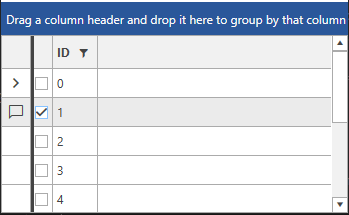
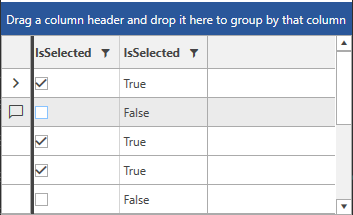
Replaced the screenshot and changed the property name

diff --git a/controls/radgridview/columns/columntypes/checkbox-column.md b/controls/radgridview/columns/columntypes/checkbox-column.md
@@ -19,7 +19,7 @@ __GridViewCheckBoxColumn__ derives from __GridViewBoundColumnBase__ class and it
 	                AutoGenerateColumns="False"
 					ItemsSource="{Binding Items}">
 	    <telerik:RadGridView.Columns>
-	        <telerik:GridViewCheckBoxColumn DataMemberBinding="{Binding IsActive}" />
+	        <telerik:GridViewCheckBoxColumn DataMemberBinding="{Binding IsSelected}" />
 	    </telerik:RadGridView.Columns>
 	</telerik:RadGridView>
 {{endregion}}
@@ -46,7 +46,7 @@ Here are the possible cases:
 	                AutoGenerateColumns="False"
 					ItemsSource="{Binding Items}">
 	    <telerik:RadGridView.Columns>
-	        <telerik:GridViewCheckBoxColumn DataMemberBinding="{Binding IsActive}" AutoSelectOnEdit="True" EditTriggers="CellClick"/>
+	        <telerik:GridViewCheckBoxColumn DataMemberBinding="{Binding IsSelected}" AutoSelectOnEdit="True" EditTriggers="CellClick"/>
 	    </telerik:RadGridView.Columns>
 	</telerik:RadGridView>
 {{endregion}}
